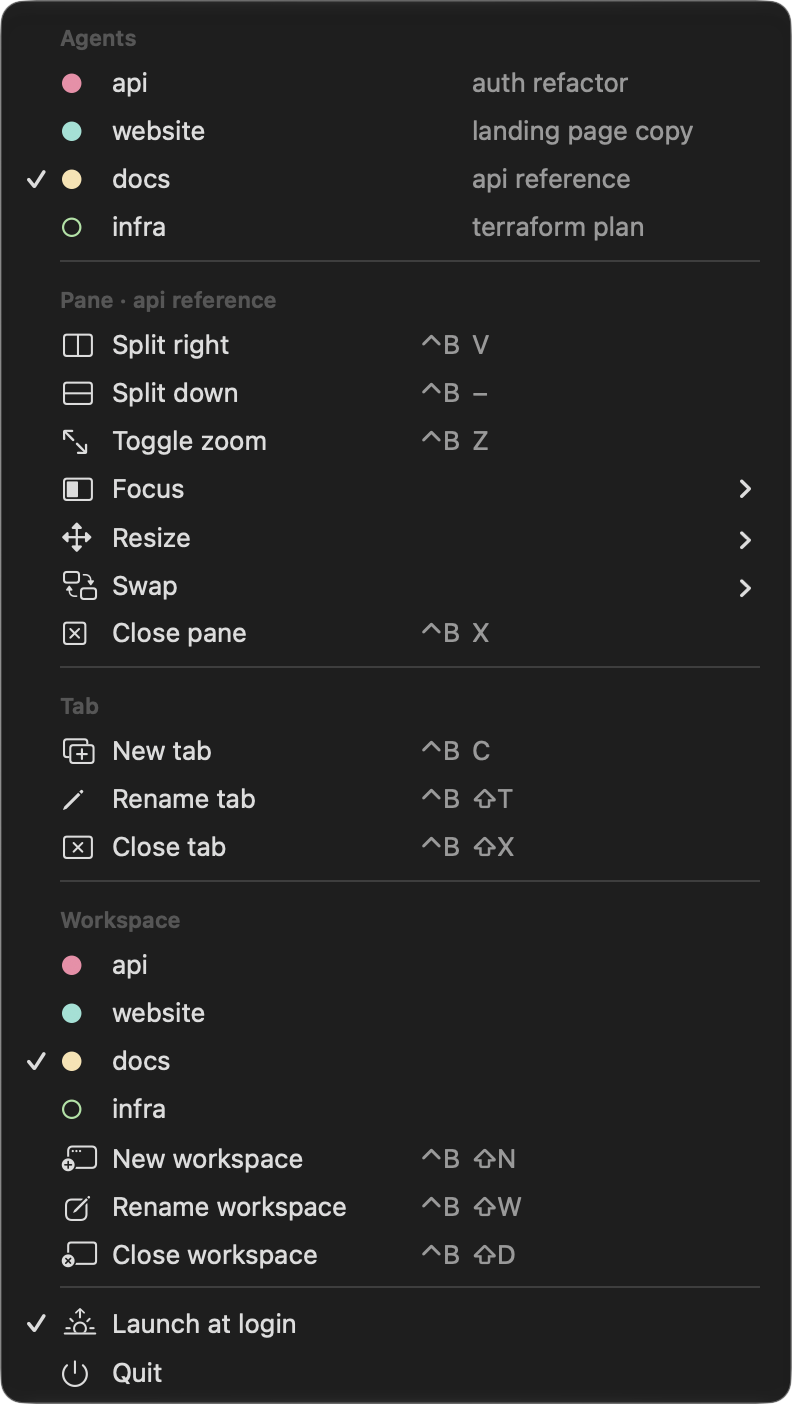
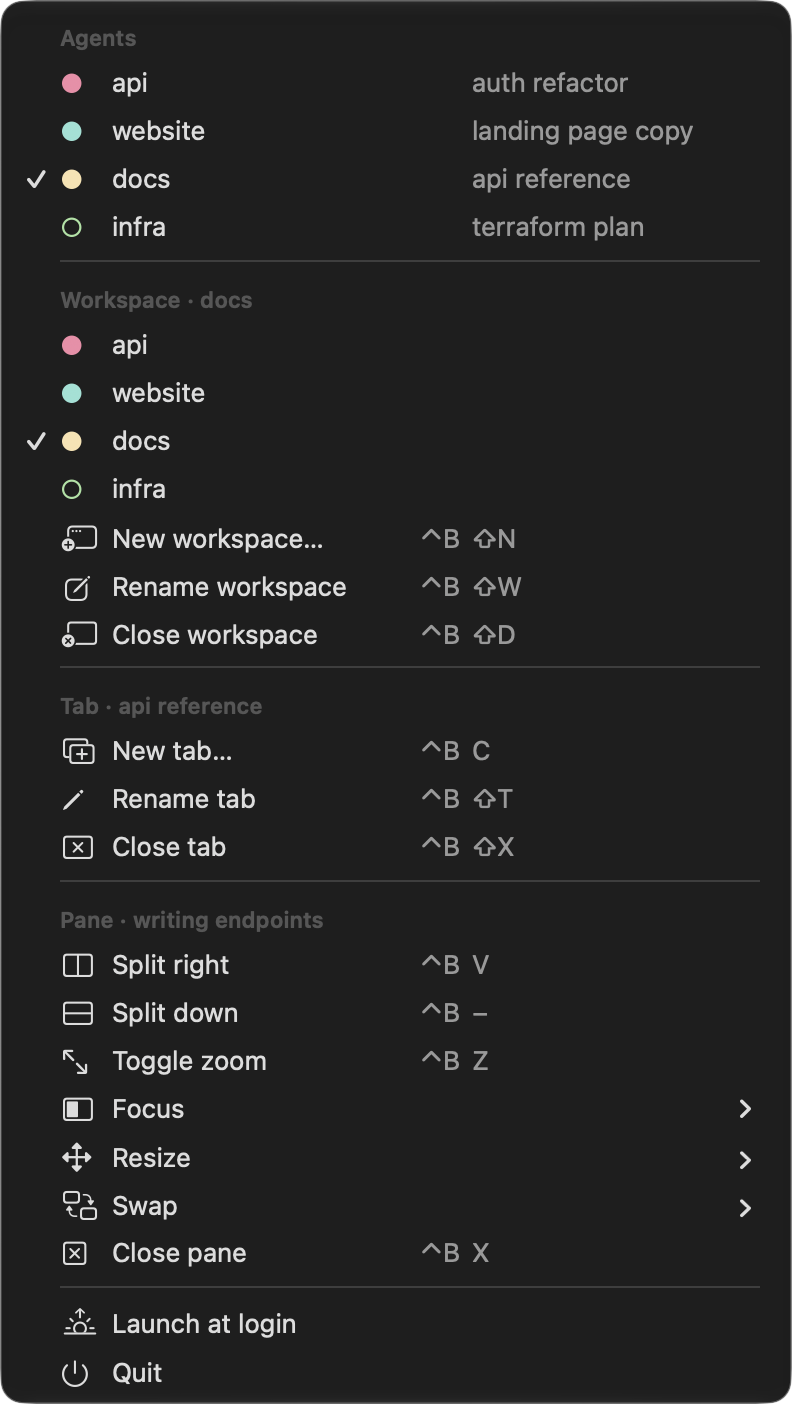
Retake the README menu screenshot in the new order

diff --git a/README.md b/README.md
@@ -14,7 +14,7 @@
 </p>
 
 <p align="center">
-  <img src="screenshots/menu.png" width="396" alt="The HerdrMenu menu: agents with status dots, then Pane, Tab and Workspace actions with their herdr keybinds">
+  <img src="screenshots/menu.png" width="396" alt="The HerdrMenu menu: agents with status dots, then Workspace, Tab and Pane actions with their herdr keybinds">
 </p>
 
 - **Agents** at the top of the menu, with herdr's status dots. Click one to jump to it.
